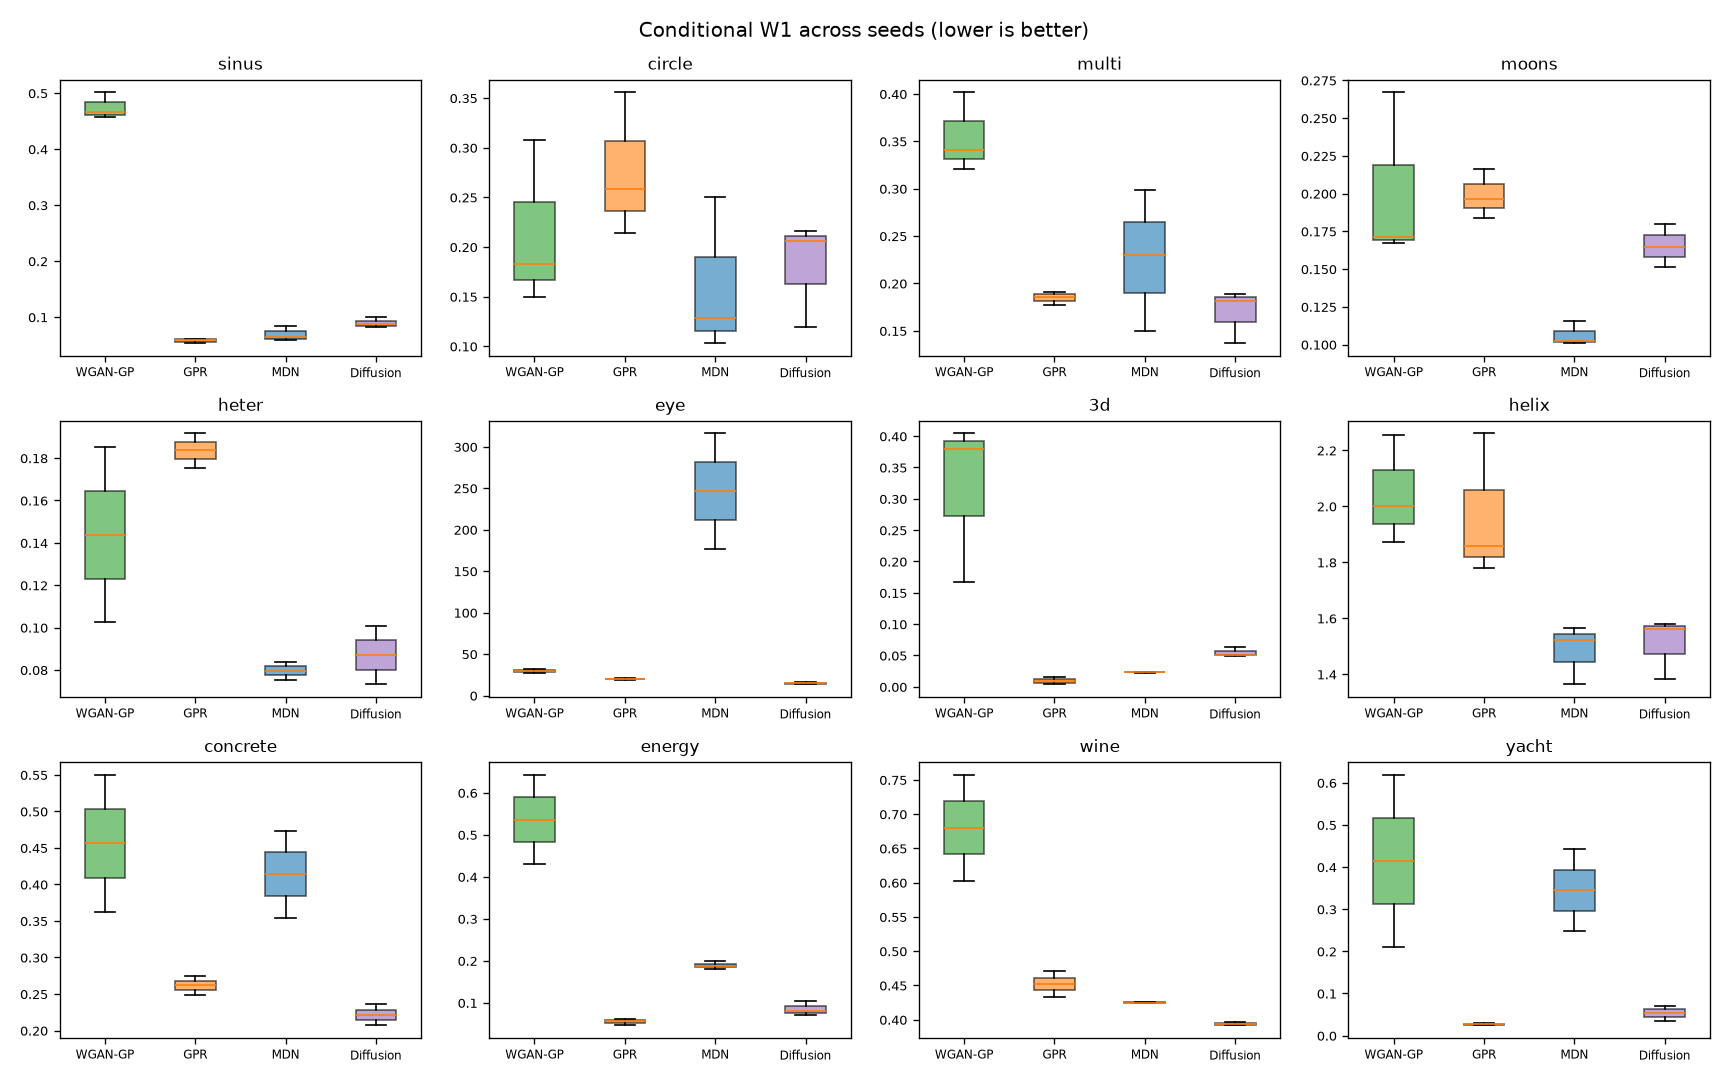
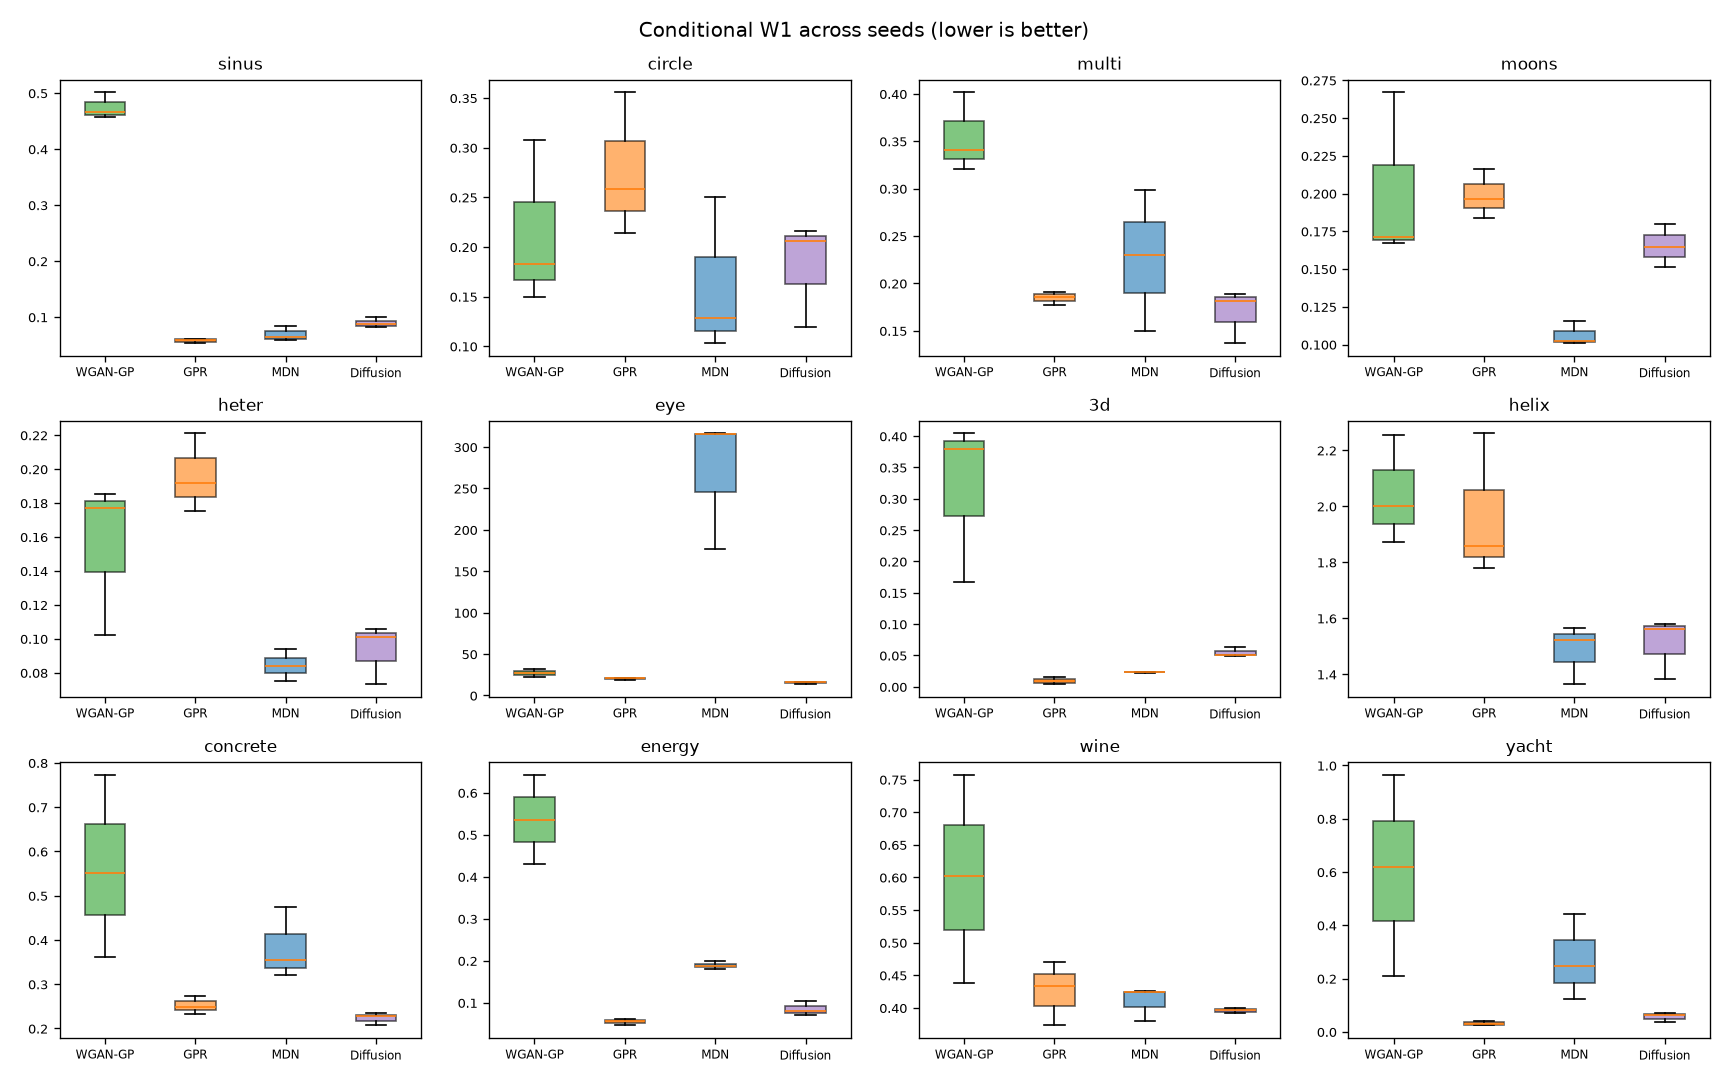
Complete seed-2 benchmark results (concrete, eye, wine, yacht)

diff --git a/docs/BENCHMARK.md b/docs/BENCHMARK.md
@@ -38,16 +38,16 @@ standardised space; see `docs/METHOD.md`.
 |  | MDN | **0.106 ± 0.007** | **0.0005 ± 0.0005** | **1.44 ± 0.01** |
 |  | Diffusion | 0.166 ± 0.012 | 0.0007 ± 0.0001 | 1.50 ± 0.01 |
 |  | WGAN-GP (modern) | 0.249 | 0.0134 | 2.05 |
-| heter | WGAN-GP | 0.144 ± 0.041 | 0.0141 ± 0.0118 | 1.25 ± 0.81 |
-|  | GPR | 0.184 ± 0.008 | 0.0139 ± 0.0025 | 0.67 ± 0.02 |
-|  | MDN | **0.080 ± 0.004** | **0.0013 ± 0.0003** | 0.43 ± 0.03 |
-|  | Diffusion | 0.087 ± 0.014 | 0.0015 ± 0.0003 | 0.41 ± 0.01 |
+| heter | WGAN-GP | 0.155 ± 0.037 | 0.0116 ± 0.0103 | 0.99 ± 0.76 |
+|  | GPR | 0.196 ± 0.019 | 0.0142 ± 0.0021 | 0.66 ± 0.01 |
+|  | MDN | **0.084 ± 0.008** | **0.0012 ± 0.0003** | 0.43 ± 0.03 |
+|  | Diffusion | 0.093 ± 0.014 | 0.0012 ± 0.0005 | 0.40 ± 0.01 |
 |  | WGAN-GP (modern) | 0.118 | 0.0057 | **0.39** |
 | eye | WGAN-GP (modern) | 21.364 | 0.0061 | 11.66 |
-|  | WGAN-GP | 29.839 ± 2.655 | 0.0127 ± 0.0036 | 11.91 ± 0.11 |
-|  | GPR | 19.815 ± 0.845 | 0.0017 ± 0.0006 | 11.61 ± 0.01 |
-|  | MDN | 246.197 ± 69.919 | 0.3307 ± 0.0737 | 13.05 ± 0.32 |
-|  | Diffusion | **15.003 ± 1.358** | **0.0011 ± 0.0010** | **11.47 ± 0.01** |
+|  | WGAN-GP | 27.310 ± 4.182 | 0.0095 ± 0.0054 | 11.80 ± 0.18 |
+|  | GPR | 20.347 ± 1.020 | 0.0022 ± 0.0009 | 11.61 ± 0.01 |
+|  | MDN | 269.630 ± 66.011 | 0.3567 ± 0.0705 | 13.17 ± 0.31 |
+|  | Diffusion | **15.248 ± 1.162** | **0.0011 ± 0.0008** | **11.47 ± 0.01** |
 | 3d | WGAN-GP | 0.317 ± 0.107 | 0.0014 ± 0.0007 | 5.49 ± 0.08 |
 |  | GPR | **0.010 ± 0.005** | **0.0000 ± 0.0000** | 5.37 ± 0.02 |
 |  | MDN | 0.024 ± 0.001 | 0.0000 ± 0.0000 | 5.37 ± 0.02 |
@@ -58,19 +58,19 @@ standardised space; see `docs/METHOD.md`.
 |  | MDN | **1.485 ± 0.087** | 0.0063 ± 0.0013 | **5.47 ± 0.09** |
 |  | Diffusion | 1.510 ± 0.089 | **0.0022 ± 0.0009** | 5.63 ± 0.05 |
 |  | WGAN-GP (modern) | 1.904 | 0.0283 | 5.73 |
-| concrete | WGAN-GP | 0.456 ± 0.094 | 0.0085 ± 0.0027 | 9.30 ± 0.12 |
-|  | GPR | 0.262 ± 0.012 | 0.0002 ± 0.0000 | 9.31 ± 0.06 |
-|  | MDN | 0.414 ± 0.059 | 0.0010 ± 0.0001 | 9.40 ± 0.05 |
-|  | Diffusion | **0.221 ± 0.014** | **0.0001 ± 0.0000** | **9.26 ± 0.11** |
+| concrete | WGAN-GP | 0.562 ± 0.168 | 0.0123 ± 0.0057 | 9.55 ± 0.36 |
+|  | GPR | 0.252 ± 0.017 | 0.0002 ± 0.0000 | 9.36 ± 0.08 |
+|  | MDN | 0.383 ± 0.066 | 0.0009 ± 0.0001 | 9.47 ± 0.11 |
+|  | Diffusion | **0.223 ± 0.012** | **0.0002 ± 0.0001** | **9.29 ± 0.10** |
 | energy | WGAN-GP | 0.536 ± 0.087 | 0.0101 ± 0.0032 | 8.98 ± 0.31 |
 |  | GPR | **0.055 ± 0.007** | **0.0000 ± 0.0000** | **8.98 ± 0.02** |
 |  | MDN | 0.189 ± 0.007 | 0.0008 ± 0.0002 | 9.21 ± 0.05 |
 |  | Diffusion | 0.086 ± 0.014 | 0.0000 ± 0.0000 | 8.98 ± 0.01 |
-| wine | WGAN-GP | 0.680 ± 0.078 | 0.0440 ± 0.0013 | 14.37 ± 0.20 |
-|  | GPR | 0.452 ± 0.019 | 0.0007 ± 0.0003 | 12.86 ± 0.11 |
-|  | MDN | 0.425 ± 0.001 | 0.0003 ± 0.0001 | 12.71 ± 0.02 |
-|  | Diffusion | **0.394 ± 0.002** | **0.0003 ± 0.0000** | **12.69 ± 0.01** |
-| yacht | WGAN-GP | 0.415 ± 0.204 | 0.0248 ± 0.0129 | 7.80 ± 0.21 |
-|  | GPR | **0.027 ± 0.003** | **0.0000 ± 0.0000** | **7.35 ± 0.03** |
-|  | MDN | 0.345 ± 0.098 | 0.0052 ± 0.0023 | 7.61 ± 0.25 |
-|  | Diffusion | 0.053 ± 0.018 | 0.0001 ± 0.0000 | 7.37 ± 0.03 |
+| wine | WGAN-GP | 0.599 ± 0.131 | 0.0344 ± 0.0136 | 14.04 ± 0.49 |
+|  | GPR | 0.426 ± 0.040 | 0.0006 ± 0.0002 | 12.88 ± 0.09 |
+|  | MDN | 0.410 ± 0.021 | 0.0009 ± 0.0008 | **12.73 ± 0.04** |
+|  | Diffusion | **0.396 ± 0.003** | **0.0003 ± 0.0001** | 12.75 ± 0.09 |
+| yacht | WGAN-GP | 0.599 ± 0.309 | 0.0328 ± 0.0154 | 7.99 ± 0.31 |
+|  | GPR | **0.032 ± 0.007** | **0.0000 ± 0.0000** | **7.33 ± 0.04** |
+|  | MDN | 0.271 ± 0.132 | 0.0036 ± 0.0029 | 7.58 ± 0.21 |
+|  | Diffusion | 0.056 ± 0.015 | 0.0001 ± 0.0000 | 7.39 ± 0.04 |
